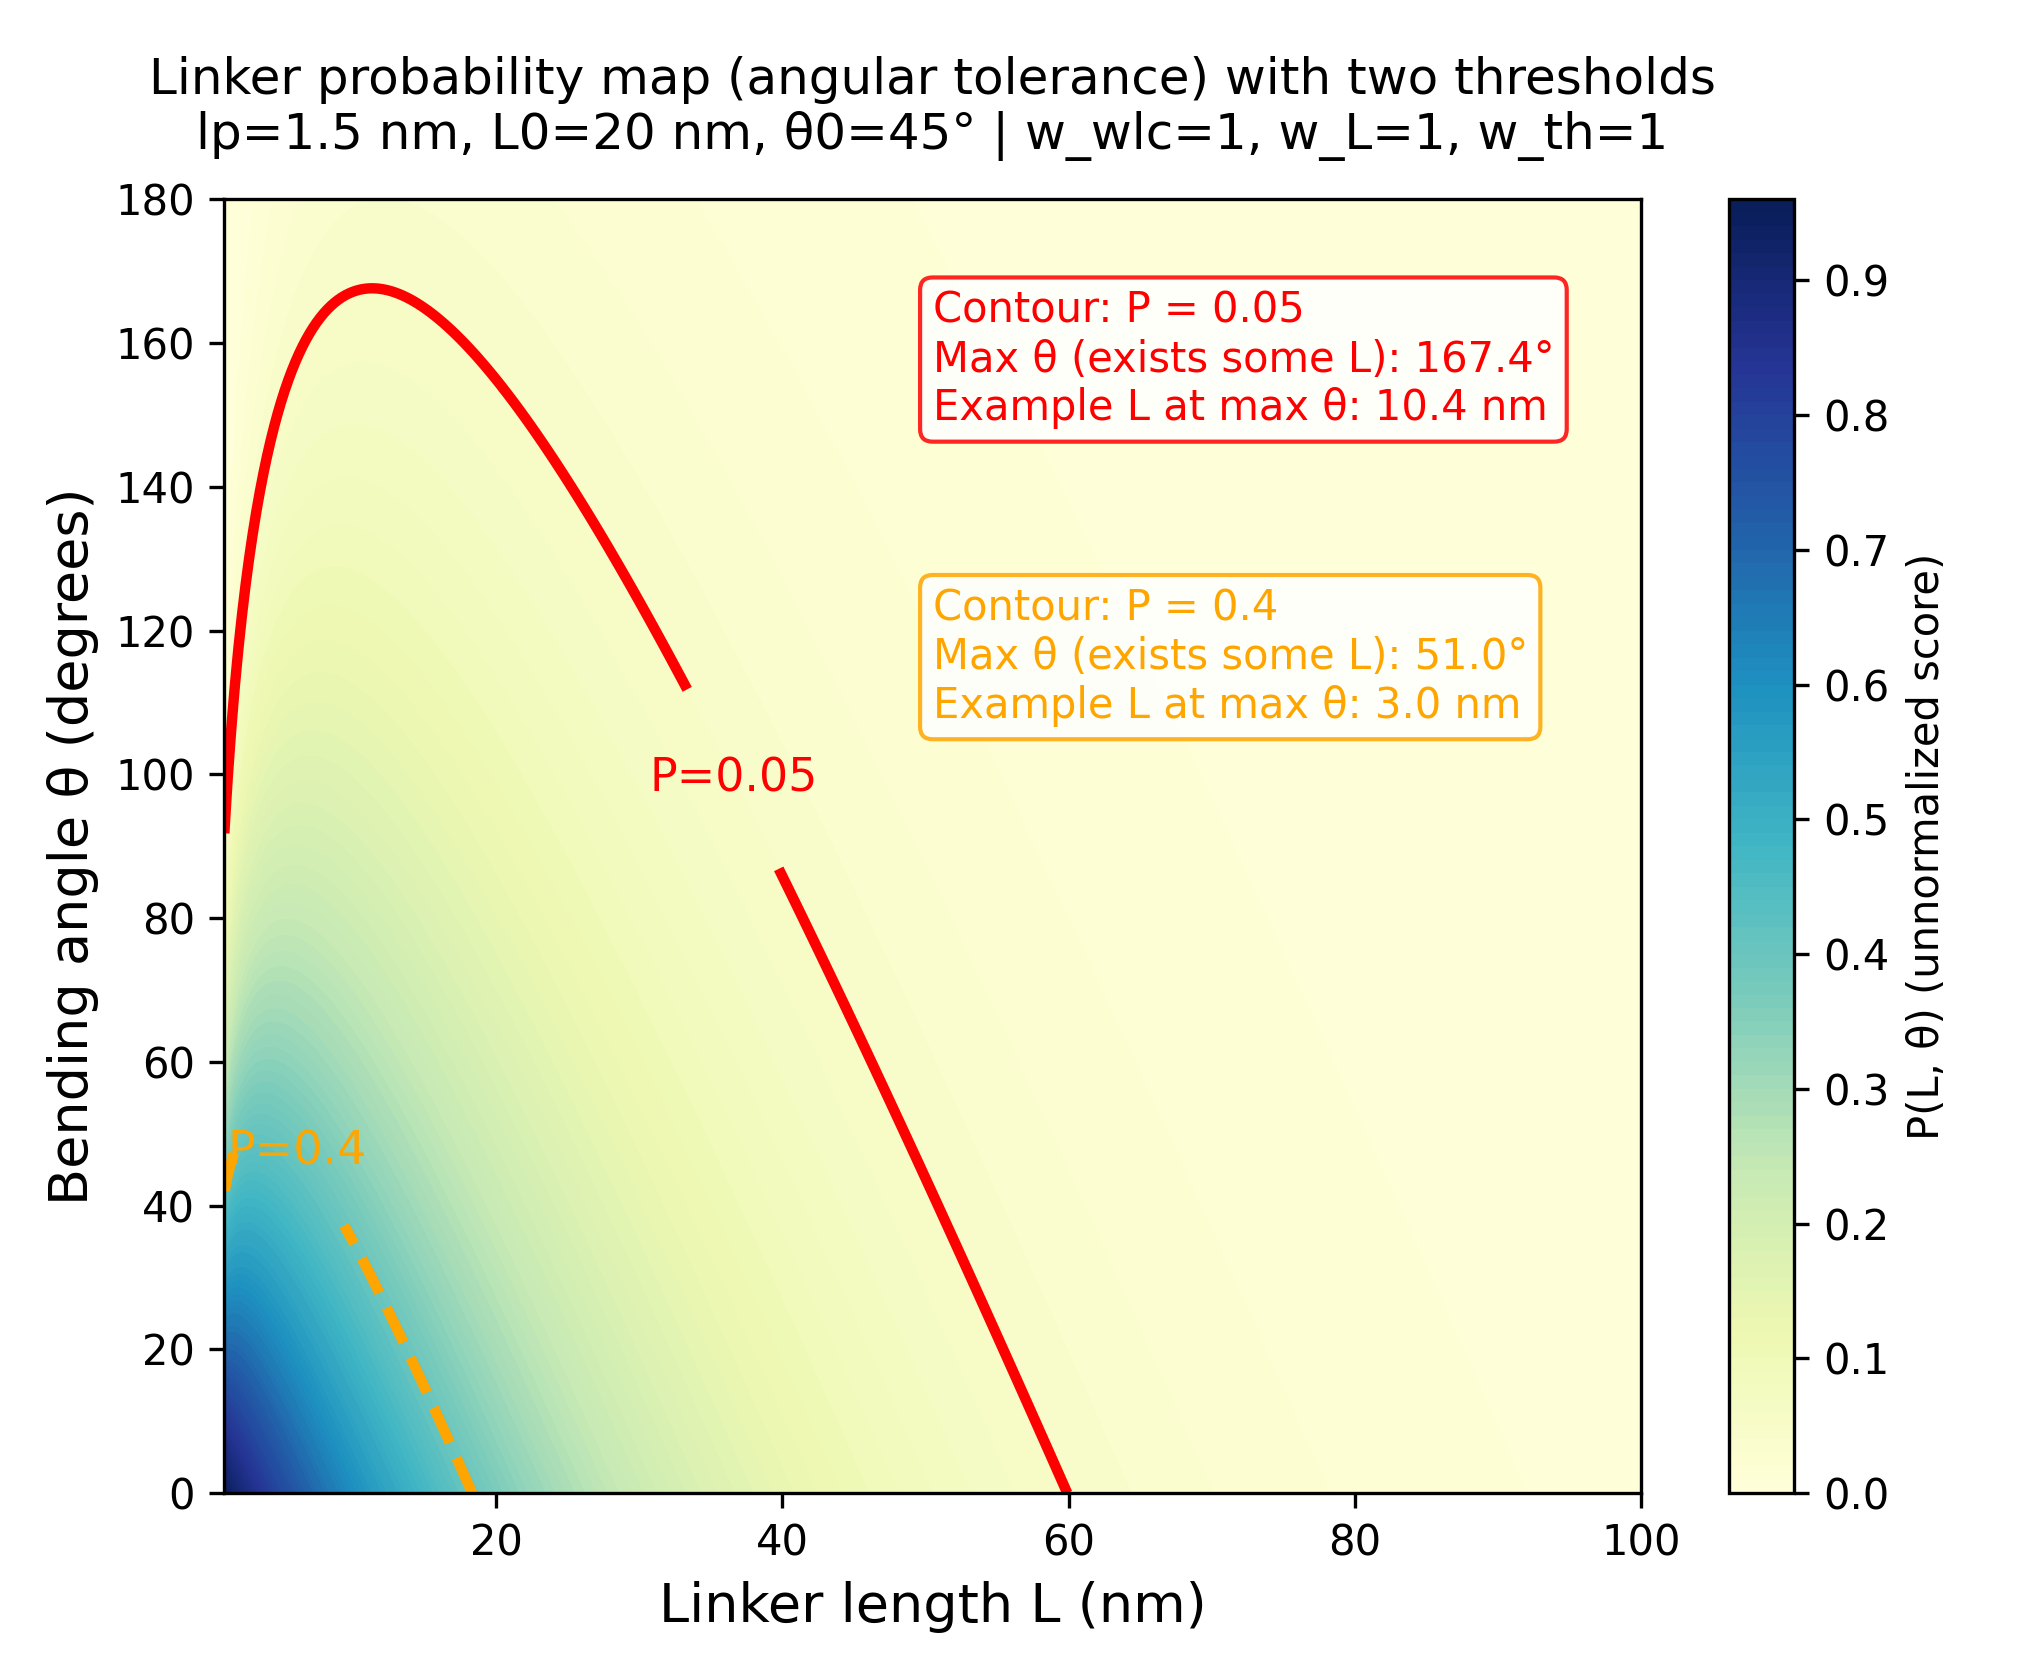
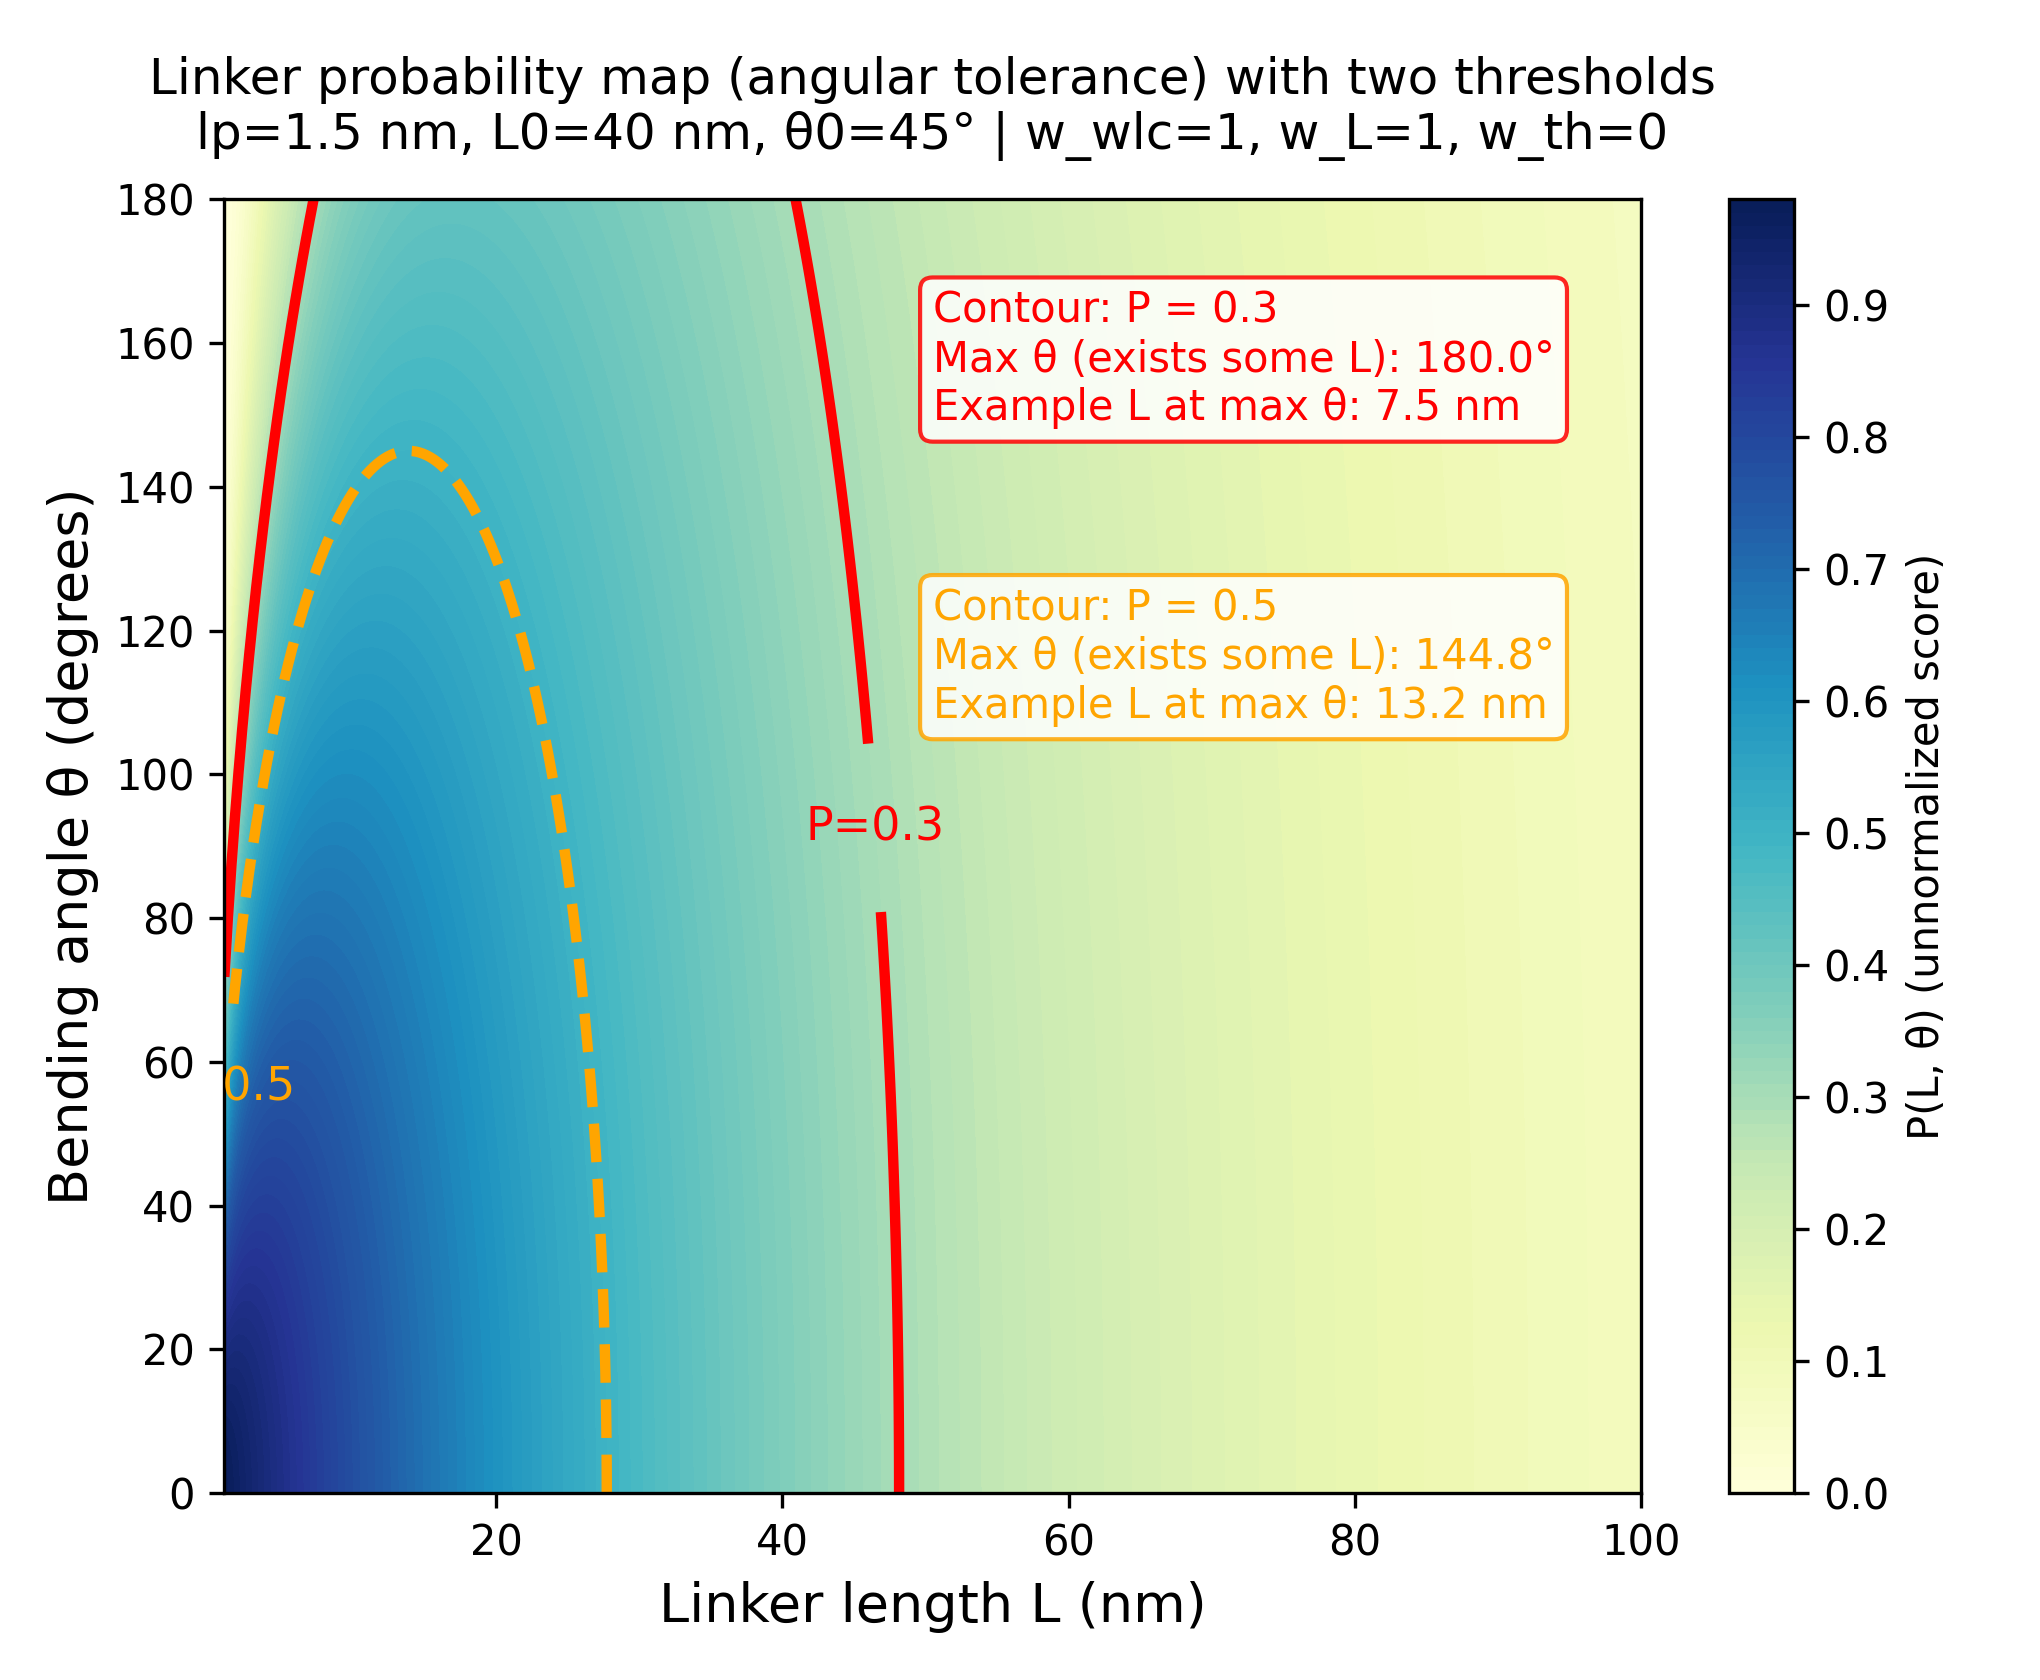
feat: Improve script portability and plotting configurations
- Added `os.chdir(__file__)` to all prediction and plotting scripts to allow execution from any relative path
- Tuned visualization parameters in `LC5C_V2B_DoubleCurve_plot_linker_probability_map_singleP_Ex.py`
- Added and updated `LC2_plot_theta_vs_L.py` for edge analysis
- Saved updated evaluation plots

diff --git a/tools/LC2_plot_theta_vs_L.py b/tools/LC2_plot_theta_vs_L.py
@@ -1,0 +1,67 @@
+#!/usr/bin/env python3
+import pandas as pd
+import matplotlib.pyplot as plt
+import os
+
+# Set working directory to the script's location
+os.chdir(os.path.dirname(os.path.abspath(__file__)))
+
+# ----------------------------
+# Input CSV
+# ----------------------------
+# CSV_PATH = r"C:\Users\LongChen\Documents\ResearchRelated\Dev\Agent\NucC2Align260218_simplify\experiments\Nucleosome_Ben_tomo_2173\DoubleLinker_edges.csv"
+
+CSV_PATH = r"C:\Users\LongChen\Documents\ResearchRelated\Dev\Agent\NucC2Align260218_simplify\experiments\Ribosome_tomo0017\Linker_edges.csv"
+
+# CSV_PATH = r"C:\Users\LongChen\OneDrive - Nexus365\Laptop\Research202408\Research_Dave\Dev\SocioMol\dev2\V1_noUI\NucC2Align\manual_linker\scripts\MR_arm2_0_di25_72_BaseOnEndDensity\DoubleLinker_edges.csv"
+
+
+# CSV_PATH = r"C:\Users\LongChen\OneDrive - Nexus365\Laptop\Research202408\Research_Dave\Dev\SocioMol\dev2\V1_noUI\NucC2Align\manual_linker\scripts\Single_tomo3\DoubleLinker_edges.csv"
+
+
+THETA_COL = "theta_deg"
+L_COL = "L_nm"
+
+# ----------------------------
+# Load data
+# ----------------------------
+df = pd.read_csv(CSV_PATH)
+
+if THETA_COL not in df.columns or L_COL not in df.columns:
+    raise KeyError(f"Missing required columns. Available: {list(df.columns)}")
+
+theta = pd.to_numeric(df[THETA_COL], errors="coerce")
+L = pd.to_numeric(df[L_COL], errors="coerce")
+
+mask = theta.notna() & L.notna()
+theta = theta[mask]
+L = L[mask]
+
+print(f"[INFO] n_points = {len(theta)}")
+
+# ----------------------------
+# Plot
+# ----------------------------
+plt.figure(figsize=(4.5, 4), dpi=180)
+
+plt.scatter(
+    L,
+    theta,
+    s=5,
+    alpha=0.6
+)
+
+plt.xlabel("Linker length L (nm)")
+plt.ylabel("Theta (degrees)")
+plt.title("Theta vs Linker Length")
+
+ax = plt.gca()
+ax.spines["top"].set_visible(False)
+ax.spines["right"].set_visible(False)
+
+plt.xlim(0, 60)
+plt.ylim(0, 180)
+
+plt.tight_layout()
+plt.savefig("theta_vs_L_scatter.png", dpi=300)
+plt.show()

diff --git a/tools/LC5C_V2B_DoubleCurve_plot_linker_probability_map_singleP_Ex.py b/tools/LC5C_V2B_DoubleCurve_plot_linker_probability_map_singleP_Ex.py
@@ -1,5 +1,9 @@
 import numpy as np
 import matplotlib.pyplot as plt
+import os
+
+# Set working directory to the script's location
+os.chdir(os.path.dirname(os.path.abspath(__file__)))
 
 # ============================================================
 # Target model:
@@ -14,14 +18,14 @@ import matplotlib.pyplot as plt
 # User-tunable parameters
 # -------------------------
 lp = 1.5
-L0 = 20
+L0 = 40
 theta0_deg = 45
 
-P_thresholds = [0.05, 0.4]
+P_thresholds = [0.3, 0.5]
 
 w_wlc = 1.0
 w_L   = 1.0
-w_th  = 1.0
+w_th  = 0
 
 # -------------------------
 # Ranges / grids

diff --git a/experiments/Nucleosome_Ben_tomo_2173/LC2_V2_run_prediction.py b/experiments/Nucleosome_Ben_tomo_2173/LC2_V2_run_prediction.py
@@ -1,6 +1,9 @@
 import sys, os
 sys.path.append(os.path.dirname(os.path.dirname(os.path.dirname(__file__))))
 
+# Set working directory to the script's location
+os.chdir(os.path.dirname(os.path.abspath(__file__)))
+
 from linker_prediction import run_prediction_pipeline
 
 # ==========================================

diff --git a/experiments/Ribosome_tomo0017/LC2_V2_run_prediction.py b/experiments/Ribosome_tomo0017/LC2_V2_run_prediction.py
@@ -1,6 +1,9 @@
 import sys, os
 sys.path.append(os.path.dirname(os.path.dirname(os.path.dirname(__file__))))
 
+# Set working directory to the script's location
+os.chdir(os.path.dirname(os.path.abspath(__file__)))
+
 from linker_prediction import run_prediction_pipeline
 
 # ==========================================

diff --git a/experiments/Ribosome_tomo0017/LC0A_V3_make_LC_star_from_arms.py b/experiments/Ribosome_tomo0017/LC0A_V3_make_LC_star_from_arms.py
@@ -35,6 +35,9 @@ from linker_prediction import (
     midpoint_from_two_points,
 )
 
+# Set working directory to the script's location
+os.chdir(os.path.dirname(os.path.abspath(__file__)))
+
 
 
 # You can also make these as command line arguments; here we hardcode for simplicity
